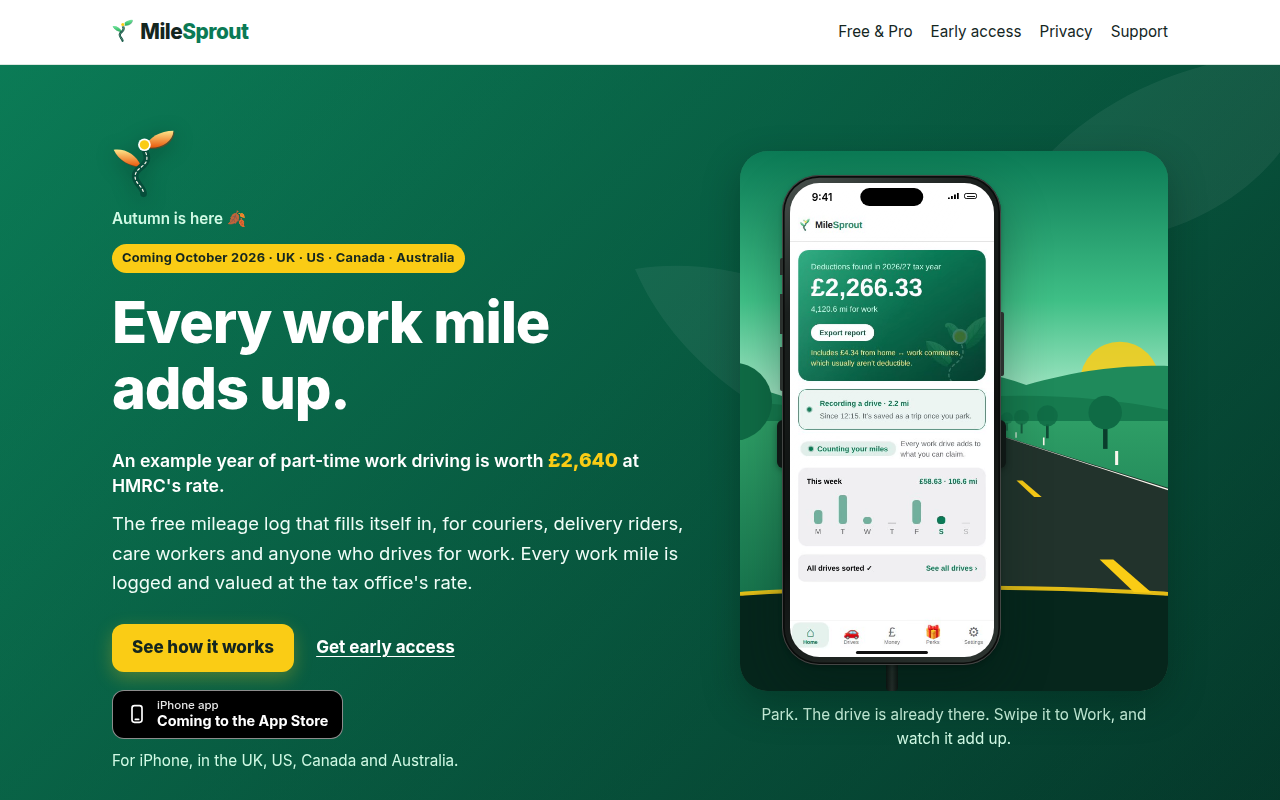
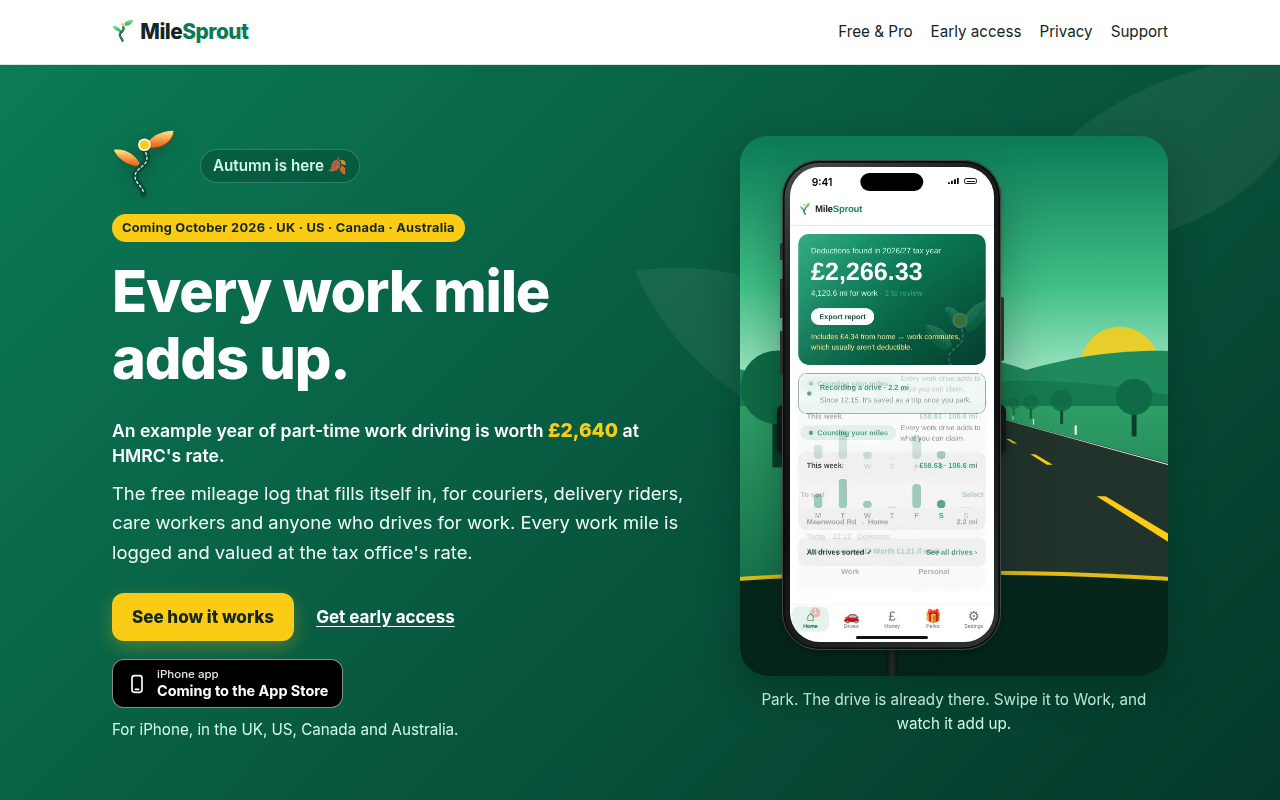
Website hero: no layout shift on a repeat visit (QA)
The season greeting is now a small pill positioned beside the sprout mark,
so it takes no space, and the hat no longer changes the mark's viewBox.
That removes the 31 px shift on a repeat desktop visit (CLS 0.0154 in London).

Canada's money line is longer than the UK text the page used to start with,
so it could jump when site.js swapped it in. intro-gate.js now decides the
country before paint (window.MSCountry; season.js and site.js use it) and
sets <html data-cc>. index.html carries all four lines and site.css shows
the visitor's; without JS the UK one shows.

tools/website/cls-check.js measures a repeat desktop visit in London,
New York and Toronto: CLS 0 in all three, three runs each. A test checks
that the four lines' figures match.

Claude-Session: https://claude.ai/code/session_01HV35bfD7NzTSNvA32BVxeb

diff --git a/website/index.html b/website/index.html
@@ -18,10 +18,10 @@
 <link rel="icon" href="/favicon-32.png" sizes="32x32" type="image/png">
 <link rel="apple-touch-icon" href="/apple-touch-icon.png">
 <link rel="preload" href="/assets/img/screens/home.webp" as="image" type="image/webp">
-<link rel="stylesheet" href="/assets/site.css?v=be734af7">
-<script src="/assets/intro-gate.js?v=56dc1bca"></script>
-<script src="/assets/season.js?v=101642d5" defer></script>
-<script src="/assets/site.js?v=f865dad9" defer></script>
+<link rel="stylesheet" href="/assets/site.css?v=bbf6a4de">
+<script src="/assets/intro-gate.js?v=642feb4d"></script>
+<script src="/assets/season.js?v=958db9cd" defer></script>
+<script src="/assets/site.js?v=6dab7bbc" defer></script>
 <noscript><style>
   /* Without JavaScript: every feature is listed, the deck is a still picture. */
   .feat { opacity: 1 !important; visibility: visible !important; transform: none !important; grid-area: auto !important; }
@@ -58,7 +58,7 @@
         <svg class="hero-sprout" viewBox="12 9 77 84" aria-hidden="true" focusable="false"><defs><linearGradient id="ms-leaf-hero" x1="0" y1="0" x2="0" y2="1"><stop offset="0" stop-color="#77E8A0"/><stop offset="1" stop-color="#24B359"/></linearGradient></defs><g transform="translate(1.2 1.6)" fill="#085E42" opacity=".5"><path d="M47 54 C37 55 20 48 14 34 C27 32 41 39 47 54Z"/><path d="M52 31 C56 19 70 11 86 11 C85 25 70 34 52 31Z"/></g><path d="M47 54 C37 55 20 48 14 34 C27 32 41 39 47 54Z" fill="url(#ms-leaf-hero)"/><path d="M52 31 C56 19 70 11 86 11 C85 25 70 34 52 31Z" fill="url(#ms-leaf-hero)"/><path d="M50 87 C50 78 38 74 40 64 C42 55 54 54 54 44 C54 37 50 35 51 30" stroke="#064E3B" stroke-width="8" stroke-linecap="round" fill="none"/><path d="M50 87 C50 78 38 74 40 64 C42 55 54 54 54 44 C54 37 50 35 51 30" stroke="#FBF7EE" stroke-width="1.4" stroke-linecap="round" stroke-dasharray="2.6 3.2" stroke-dashoffset="-3" fill="none"/><circle cx="51" cy="28" r="7.6" fill="#FFFFFF"/><circle cx="51" cy="28" r="5.6" fill="#FACC15"/></svg>
         <span class="pill">Coming October 2026 · UK · US · Canada · Australia</span>
         <h1 id="hero-title">Every work mile adds up.</h1>
-        <p class="money-line" data-money>An example year of part-time work driving is worth <strong>£2,640</strong> at HMRC's rate.</p>
+        <p class="money-line" data-money><span data-for="UK">An example year of part-time work driving is worth <strong>£2,640</strong> at HMRC's rate.</span><span data-for="US">An example year of part-time work driving is worth <strong>$3,648</strong> at the IRS's rate.</span><span data-for="CA">An example year of part-time work driving is worth about <strong>$5,446</strong> at the CRA's allowance rate (the most an employer can pay tax-free).</span><span data-for="AU">An example year of part-time work driving is worth <strong>$4,550</strong> at the ATO's rate.</span></p>
         <p class="lede">The free mileage log that fills itself in, for couriers, delivery riders, care workers and anyone who drives for work. Every work mile is logged and valued at the tax office's rate.</p>
         <p class="hero-actions">
           <a class="btn-gold" href="#how">See how it works</a>

diff --git a/tools/website/cls-check.js b/tools/website/cls-check.js
@@ -1,0 +1,51 @@
+#!/usr/bin/env node
+/* Layout shift on a repeat desktop visit (no intro, the season greeting and hat added by site.js).
+   Loads the home page twice in one browser session per time zone, then reads the second load's
+   cumulative layout shift (CLS). Exits 1 if any is above 0.
+   Usage: serve website/ (python3 -m http.server 8765 -d website), then
+     node tools/website/cls-check.js [base URL] [--shot path.png]
+   Needs Playwright (PLAYWRIGHT=/path/to/playwright, default /opt/node22/lib/node_modules/playwright). */
+const { chromium } = require(process.env.PLAYWRIGHT || '/opt/node22/lib/node_modules/playwright');
+
+const args = process.argv.slice(2);
+const shotAt = args.indexOf('--shot');
+const shot = shotAt >= 0 ? args.splice(shotAt, 2)[1] : null;
+const BASE = args[0] || 'http://127.0.0.1:8765/index.html';
+const ZONES = [['London', 'Europe/London', 'en-GB'], ['New York', 'America/New_York', 'en-US'], ['Toronto', 'America/Toronto', 'en-CA']];
+
+(async () => {
+  const browser = await chromium.launch();
+  let worst = 0;
+  for (const [name, tz, locale] of ZONES) {
+    const ctx = await browser.newContext({ viewport: { width: 1280, height: 800 }, timezoneId: tz, locale });
+    await ctx.addInitScript(() => {
+      window.__cls = 0; window.__shifts = [];
+      try {
+        new PerformanceObserver((list) => {
+          for (const e of list.getEntries()) {
+            if (e.hadRecentInput) continue;
+            window.__cls += e.value;
+            window.__shifts.push({ at: Math.round(e.startTime), value: +e.value.toFixed(4) });
+          }
+        }).observe({ type: 'layout-shift', buffered: true });
+      } catch (err) { /* no layout-shift entries in this browser */ }
+    });
+    const page = await ctx.newPage();
+    await page.goto(BASE, { waitUntil: 'load' }); // first visit: the intro plays and marks itself seen
+    await page.waitForTimeout(4500);
+    await page.goto(BASE, { waitUntil: 'load' }); // the repeat visit: no intro
+    await page.waitForTimeout(2500);
+    const r = await page.evaluate(() => ({
+      cls: window.__cls, shifts: window.__shifts,
+      intro: !!document.querySelector('.sprout-intro'),
+      greeting: (document.querySelector('.hero .season-greeting') || {}).textContent || null,
+    }));
+    worst = Math.max(worst, r.cls);
+    console.log(`${name.padEnd(9)} CLS ${r.cls.toFixed(4)}  greeting: ${r.greeting || 'none'}  intro on repeat: ${r.intro}${r.shifts.length ? '  shifts: ' + JSON.stringify(r.shifts) : ''}`);
+    if (shot && name === 'London') await page.screenshot({ path: shot });
+    await ctx.close();
+  }
+  await browser.close();
+  console.log(worst > 0 ? 'FAIL: layout shift on a repeat visit' : 'OK: CLS 0 on every repeat visit');
+  process.exit(worst > 0 ? 1 : 0);
+})();

diff --git a/website/assets/intro-gate.js b/website/assets/intro-gate.js
@@ -1,9 +1,33 @@
-/* Home page only, loaded before the page paints: keeps the page at the top on load, and decides whether the sprout intro plays
+/* Home page only, loaded before the page paints: picks the visitor's country, keeps the page at the top on load, and decides whether the sprout intro plays
    (once per browser session; with reduced motion it's a still, see site.js) and, if so, puts up a plain green
    cover so the hero doesn't flash first. site.js swaps the cover for the animation. If
    site.js never runs, the cover fades away by itself (CSS failsafe in site.css).
    ?season=<id> (a preview of a season, see season.js) or ?intro=1 plays it again. */
 (function () {
+  /* The visitor's country, from ?country= (previews), the time zone, then the language: 'GB', 'US', 'CA' or 'AU'.
+     Decided here, before the page paints, and put on <html data-cc>, so the hero's money line shows the
+     right country's text from the first frame (index.html carries all four; site.css shows one). No location
+     is asked for. season.js and site.js use window.MSCountry. */
+  var CA_ZONES = /^America\/(Toronto|Montreal|Vancouver|Edmonton|Winnipeg|Halifax|St_Johns|Regina|Moncton|Glace_Bay|Goose_Bay|Whitehorse|Dawson|Dawson_Creek|Fort_Nelson|Creston|Iqaluit|Rankin_Inlet|Resolute|Cambridge_Bay|Inuvik|Yellowknife|Swift_Current|Atikokan|Blanc-Sablon|Nipigon|Thunder_Bay|Rainy_River|Pangnirtung)$/;
+  var US_ZONES = /^(America\/(New_York|Chicago|Denver|Los_Angeles|Phoenix|Anchorage|Adak|Boise|Detroit|Juneau|Sitka|Metlakatla|Nome|Yakutat|Menominee|Indiana\/.+|Kentucky\/.+|North_Dakota\/.+)|Pacific\/Honolulu|US\/.+)$/;
+
+  function country() {
+    var forced = /[?&]country=(UK|GB|US|CA|AU)\b/i.exec(location.search);
+    if (forced) return forced[1].toUpperCase() === 'UK' ? 'GB' : forced[1].toUpperCase();
+    var tz = '';
+    try { tz = Intl.DateTimeFormat().resolvedOptions().timeZone || ''; } catch (err) { /* old browser */ }
+    if (/^Australia\//.test(tz)) return 'AU';
+    if (CA_ZONES.test(tz)) return 'CA';
+    if (US_ZONES.test(tz)) return 'US';
+    if (tz === 'Europe/London') return 'GB';
+    var lang = (navigator.language || '').toUpperCase();
+    var m = /-(AU|US|CA|GB)\b/.exec(lang);
+    return m ? m[1] : 'GB';
+  }
+
+  window.MSCountry = { country: country, CA_ZONES: CA_ZONES, US_ZONES: US_ZONES };
+  try { document.documentElement.setAttribute('data-cc', country()); } catch (err) { /* the UK text shows */ }
+
   /* The page always opens at the top unless the URL has a #hash. Safari otherwise restores the
      last scroll position (reload, reopening the tab, coming back), and with the page's smooth
      scrolling that looks like the page driving itself down to the screens. */

diff --git a/website/assets/site.js b/website/assets/site.js
@@ -38,9 +38,7 @@
   /** The visitor's country: ?country=CA previews one, else season.js (time zone, then language). */
   function visitorCountry() {
     var c = 'GB';
-    try { c = window.MSSeason && window.MSSeason.country ? window.MSSeason.country() : 'GB'; } catch (err) { c = 'GB'; }
-    var forced = /[?&]country=(UK|GB|US|CA|AU)\b/i.exec(location.search);
-    if (forced) c = forced[1].toUpperCase();
+    try { c = window.MSCountry ? window.MSCountry.country() : 'GB'; } catch (err) { c = 'GB'; } // intro-gate.js: ?country=, time zone, language
     return c === 'UK' ? 'GB' : APP_REGIONS[c] ? c : 'GB';
   }
   /** wholeMoney() in the app: minor units to a whole amount ("£220", "$5,446"). */
@@ -310,7 +308,7 @@
       var hat = S.hat(SEASON.id, still());
       if (hat) {
         mark.insertAdjacentHTML('beforeend', hat);
-        mark.setAttribute('viewBox', '12 2 77 91'); // room for the hat
+        // the box keeps its size (no layout shift): the hat draws above it (overflow: visible)
         mark.classList.add('has-hat');
       }
       var p = document.createElement('p');
@@ -665,13 +663,14 @@
   function defaultWeek(r) { return EXAMPLE_WEEK[r.unit]; }
 
   (function moneyLine() {
-    var line = document.querySelector('[data-money]');
-    if (!line || COUNTRY === 'UK') return; // the page's own text is the UK one (£2,640)
-    var r = RATES[COUNTRY];
-    var amount = money(r, yearWorth(r, defaultWeek(r)));
-    line.innerHTML = COUNTRY === 'CA'
-      ? 'An example year of part-time work driving is worth about <strong>' + amount + '</strong> at the CRA\'s allowance rate (the most an employer can pay tax-free).'
-      : 'An example year of part-time work driving is worth <strong>' + amount + '</strong> at ' + r.at + '.';
+    // index.html carries each country's line and site.css shows the visitor's (no jump); this keeps each one's figure
+    // in step with RATES (it rewrites only a figure that differs, so normally nothing changes)
+    Array.prototype.forEach.call(document.querySelectorAll('[data-money] [data-for]'), function (span) {
+      var r = RATES[span.getAttribute('data-for')], strong = span.querySelector('strong');
+      if (!r || !strong) return;
+      var amount = money(r, yearWorth(r, defaultWeek(r)));
+      if (strong.textContent !== amount) strong.textContent = amount;
+    });
   })();
 
   (function calculator() {

diff --git a/website/assets/site.css b/website/assets/site.css
@@ -659,7 +659,11 @@ html.ms-intro::after {
 @media (max-height: 700px) { .fx-jac { width: clamp(120px, 34vw, 260px); } }
 
 /* The sprout mark in the hero, so the brand is there after the intro too */
-.season-greeting { margin: -6px 0 12px; color: var(--mint); font-weight: 600; font-size: .95rem; }
+/* The greeting sits beside the mark and takes no space, so adding it (after first paint) moves nothing. */
+.hero .copy { position: relative; }
+.season-greeting { position: absolute; top: 22px; left: 80px; margin: 0; white-space: nowrap; color: var(--mint); font-weight: 600; font-size: .95rem;
+  padding: 4px 12px; border-radius: 999px; background: rgba(4, 56, 42, .35); border: 1px solid rgba(209, 250, 229, .22); }
+@media (min-width: 900px) { .season-greeting { top: 20px; left: 88px; } }
 .hero-sprout.has-hat { width: 52px; overflow: visible; }
 @media (min-width: 900px) { .hero-sprout.has-hat { width: 64px; } }
 .hero-sprout { display: block; width: 52px; height: auto; margin: 0 0 14px; filter: drop-shadow(0 4px 10px rgba(3, 28, 20, .35)); }
@@ -787,6 +791,10 @@ html.ms-intro::after {
 }
 
 /* ---------- Money line (under the hero h1) and the "What are your work miles worth?" calculator ---------- */
+/* All four countries' lines are in the page; <html data-cc> (set by intro-gate.js before paint) shows one, so it never jumps. Without JS: the UK one. */
+.money-line [data-for] { display: none; }
+html:not([data-cc]) .money-line [data-for="UK"], html[data-cc="GB"] .money-line [data-for="UK"], html[data-cc="US"] .money-line [data-for="US"],
+html[data-cc="CA"] .money-line [data-for="CA"], html[data-cc="AU"] .money-line [data-for="AU"] { display: inline; }
 .hero .money-line { color: #FFFFFF; font-size: 1.1rem; font-weight: 600; line-height: 1.4; margin: -.15em 0 .6em; max-width: 30em; }
 .hero .money-line strong { color: var(--gold); font-weight: 800; font-size: max(1.2rem, 1em); } /* large bold text, so 3:1 on the green is enough */
 

diff --git a/website/assets/season.js b/website/assets/season.js
@@ -9,23 +9,9 @@
 
   var IDS = ['festive', 'new-year', 'halloween', 'aussie-summer', 'winter', 'spring', 'summer', 'autumn', 'jacaranda'];
 
-  /* ---------- Which country (only AU, US/CA and the rest matter here) ---------- */
-  var CA_ZONES = /^America\/(Toronto|Montreal|Vancouver|Edmonton|Winnipeg|Halifax|St_Johns|Regina|Moncton|Glace_Bay|Goose_Bay|Whitehorse|Dawson|Dawson_Creek|Fort_Nelson|Creston|Iqaluit|Rankin_Inlet|Resolute|Cambridge_Bay|Inuvik|Yellowknife|Swift_Current|Atikokan|Blanc-Sablon|Nipigon|Thunder_Bay|Rainy_River|Pangnirtung)$/;
-  var US_ZONES = /^(America\/(New_York|Chicago|Denver|Los_Angeles|Phoenix|Anchorage|Adak|Boise|Detroit|Juneau|Sitka|Metlakatla|Nome|Yakutat|Menominee|Indiana\/.+|Kentucky\/.+|North_Dakota\/.+)|Pacific\/Honolulu|US\/.+)$/;
-
-  function country() {
-    var forced = /[?&]country=(UK|GB|US|CA|AU)\b/i.exec(location.search);
-    if (forced) return forced[1].toUpperCase() === 'UK' ? 'GB' : forced[1].toUpperCase();
-    var tz = '';
-    try { tz = Intl.DateTimeFormat().resolvedOptions().timeZone || ''; } catch (err) { /* old browser */ }
-    if (/^Australia\//.test(tz)) return 'AU';
-    if (CA_ZONES.test(tz)) return 'CA';
-    if (US_ZONES.test(tz)) return 'US';
-    if (tz === 'Europe/London') return 'GB';
-    var lang = (navigator.language || '').toUpperCase();
-    var m = /-(AU|US|CA|GB)\b/.exec(lang);
-    return m ? m[1] : 'GB';
-  }
+  /* ---------- Which country: intro-gate.js decides it before the page paints (window.MSCountry) ---------- */
+  var MC = window.MSCountry;
+  var CA_ZONES = MC.CA_ZONES, US_ZONES = MC.US_ZONES, country = MC.country;
 
   /* ---------- Which season (same rules as the app) ---------- */
   function seasonId(day, southern) {

diff --git a/website/testers.html b/website/testers.html
@@ -17,8 +17,8 @@
 <link rel="icon" href="/favicon.svg" type="image/svg+xml">
 <link rel="icon" href="/favicon-32.png" sizes="32x32" type="image/png">
 <link rel="apple-touch-icon" href="/apple-touch-icon.png">
-<link rel="stylesheet" href="/assets/site.css?v=be734af7">
-<script src="/assets/site.js?v=f865dad9" defer></script>
+<link rel="stylesheet" href="/assets/site.css?v=bbf6a4de">
+<script src="/assets/site.js?v=6dab7bbc" defer></script>
 </head>
 <body>
 <a class="skip" href="#main">Skip to content</a>

diff --git a/website/waitlist.html b/website/waitlist.html
@@ -10,8 +10,8 @@
 <link rel="icon" href="/favicon.svg" type="image/svg+xml">
 <link rel="icon" href="/favicon-32.png" sizes="32x32" type="image/png">
 <link rel="apple-touch-icon" href="/apple-touch-icon.png">
-<link rel="stylesheet" href="/assets/site.css?v=be734af7">
-<script src="/assets/site.js?v=f865dad9" defer></script>
+<link rel="stylesheet" href="/assets/site.css?v=bbf6a4de">
+<script src="/assets/site.js?v=6dab7bbc" defer></script>
 </head>
 <body>
 <a class="skip" href="#main">Skip to content</a>

diff --git a/website/partners.html b/website/partners.html
@@ -10,7 +10,7 @@
 <link rel="icon" href="/favicon.svg" type="image/svg+xml">
 <link rel="icon" href="/favicon-32.png" sizes="32x32" type="image/png">
 <link rel="apple-touch-icon" href="/apple-touch-icon.png">
-<link rel="stylesheet" href="/assets/site.css?v=be734af7">
+<link rel="stylesheet" href="/assets/site.css?v=bbf6a4de">
 </head>
 <body>
 <a class="skip" href="#main">Skip to content</a>

diff --git a/website/privacy.html b/website/privacy.html
@@ -10,7 +10,7 @@
 <link rel="icon" href="/favicon.svg" type="image/svg+xml">
 <link rel="icon" href="/favicon-32.png" sizes="32x32" type="image/png">
 <link rel="apple-touch-icon" href="/apple-touch-icon.png">
-<link rel="stylesheet" href="/assets/site.css?v=be734af7">
+<link rel="stylesheet" href="/assets/site.css?v=bbf6a4de">
 </head>
 <body>
 <a class="skip" href="#main">Skip to content</a>

diff --git a/website/r/index.html b/website/r/index.html
@@ -10,7 +10,7 @@
 <link rel="icon" href="/favicon.svg" type="image/svg+xml">
 <link rel="icon" href="/favicon-32.png" sizes="32x32" type="image/png">
 <link rel="apple-touch-icon" href="/apple-touch-icon.png">
-<link rel="stylesheet" href="/assets/site.css?v=be734af7">
+<link rel="stylesheet" href="/assets/site.css?v=bbf6a4de">
 </head>
 <body>
 <a class="skip" href="#main">Skip to content</a>

diff --git a/website/support.html b/website/support.html
@@ -10,7 +10,7 @@
 <link rel="icon" href="/favicon.svg" type="image/svg+xml">
 <link rel="icon" href="/favicon-32.png" sizes="32x32" type="image/png">
 <link rel="apple-touch-icon" href="/apple-touch-icon.png">
-<link rel="stylesheet" href="/assets/site.css?v=be734af7">
+<link rel="stylesheet" href="/assets/site.css?v=bbf6a4de">
 </head>
 <body>
 <a class="skip" href="#main">Skip to content</a>
